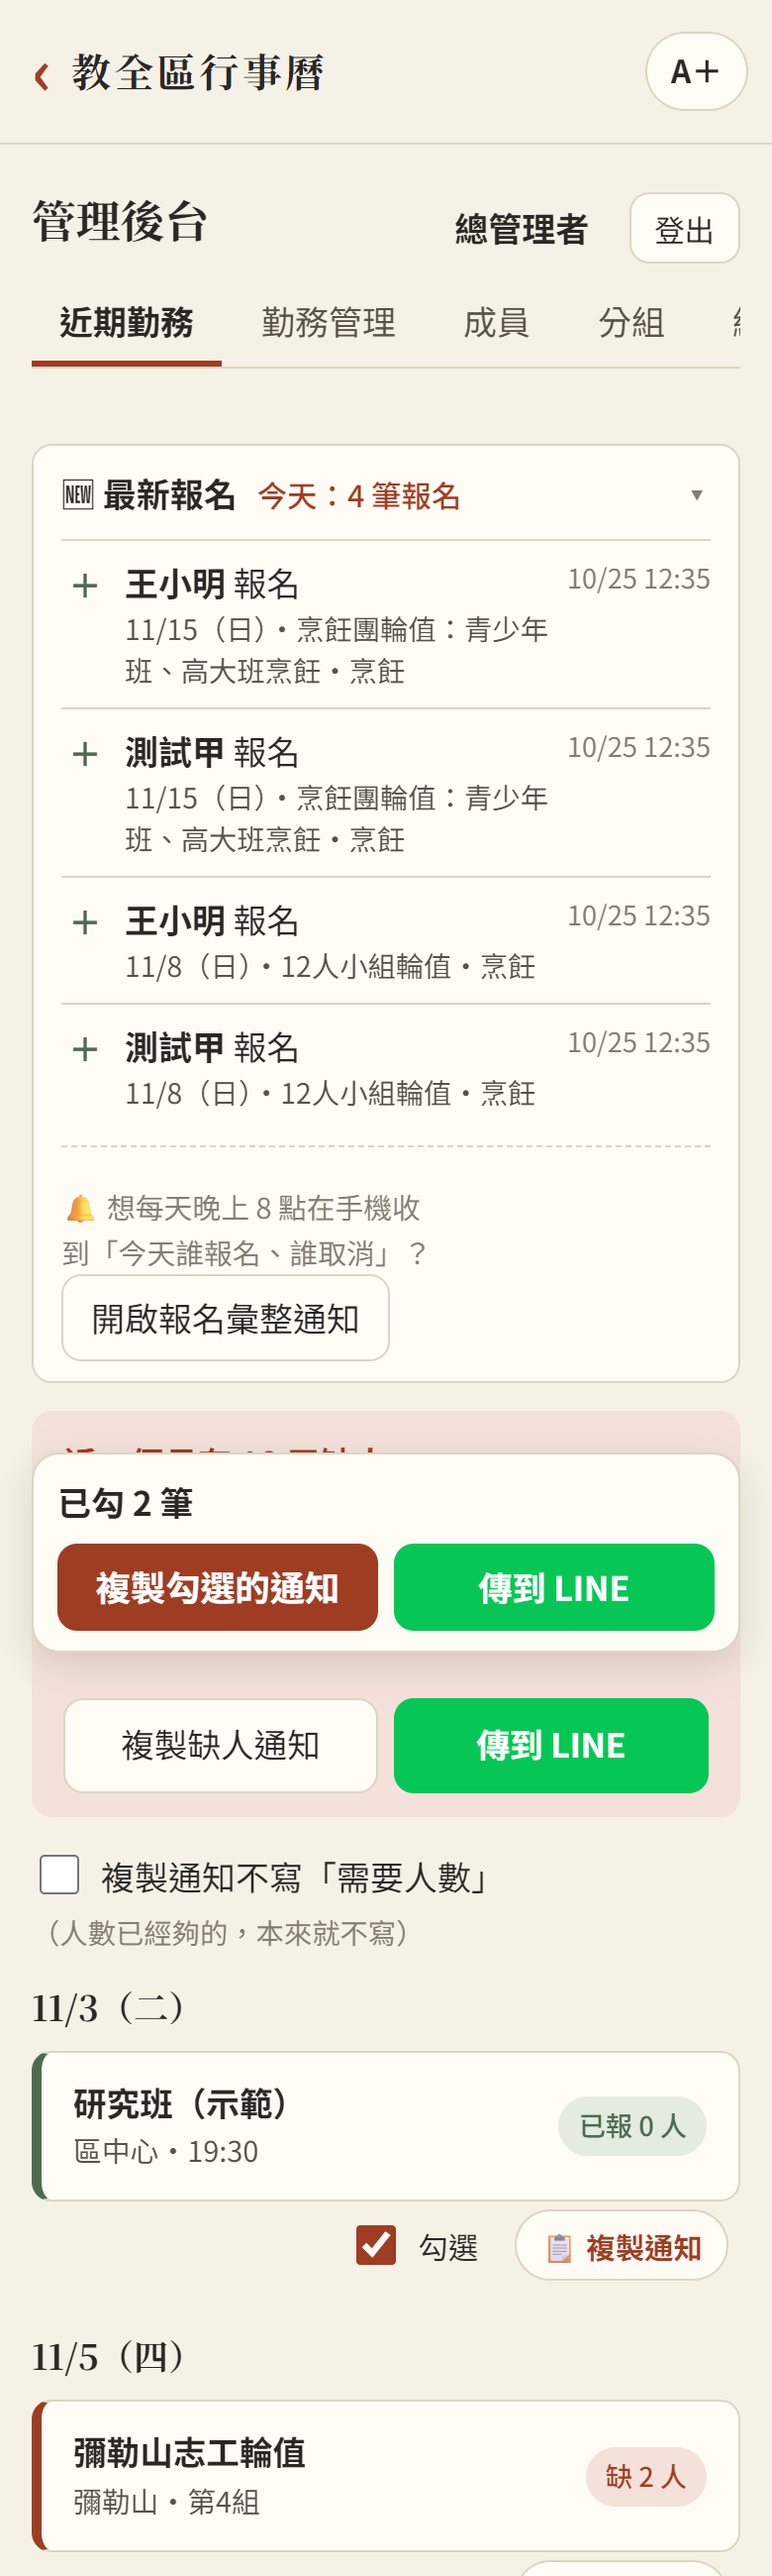
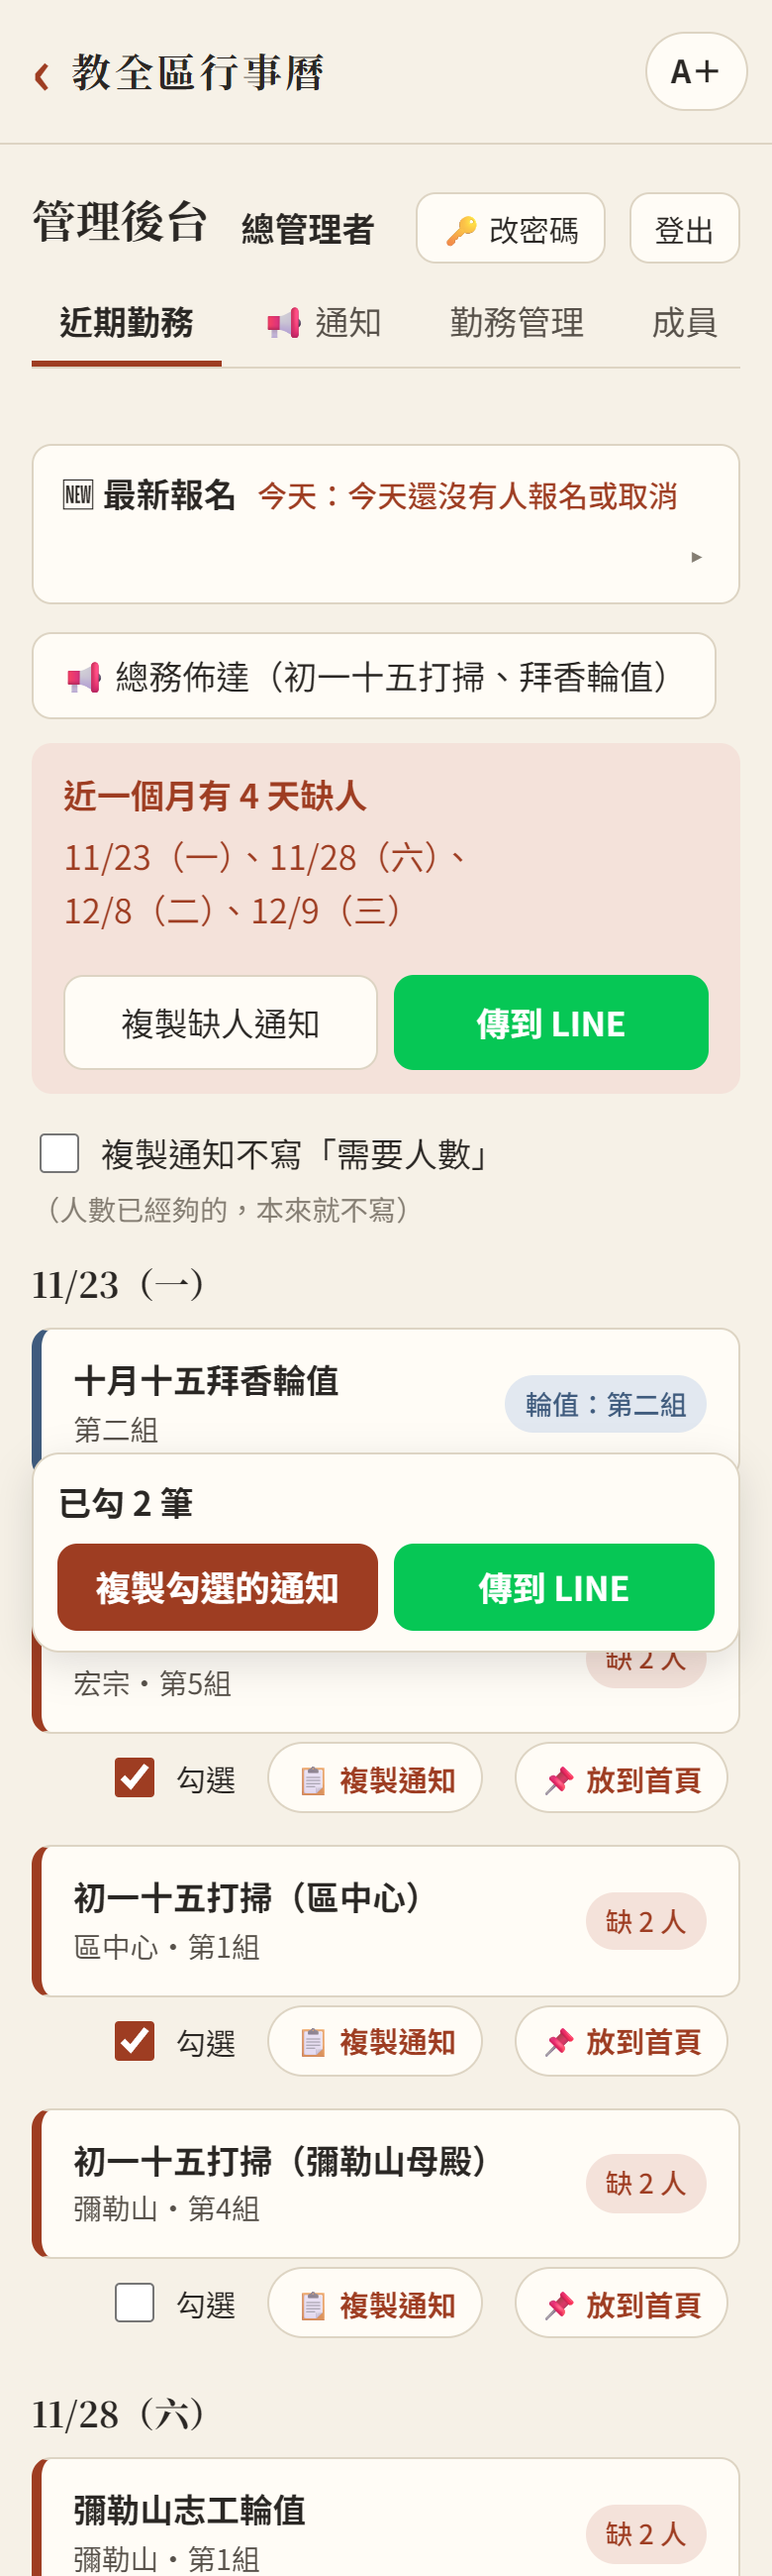
近期勤務也能直接開關「放到首頁」

diff --git a/index.html b/index.html
@@ -23,7 +23,7 @@
   <link rel="preconnect" href="https://fonts.googleapis.com">
   <link rel="preconnect" href="https://fonts.gstatic.com" crossorigin>
   <link href="https://fonts.googleapis.com/css2?family=Noto+Sans+TC:wght@400;500;700&family=Noto+Serif+TC:wght@600;700&display=swap" rel="stylesheet">
-  <link rel="stylesheet" href="css/app.css?v=20261119j">
+  <link rel="stylesheet" href="css/app.css?v=20261119k">
   <script>try { var t = localStorage.getItem('duty-calendar:text-size'); if (t === 'l' || t === 'xl') document.documentElement.classList.add('text-' + t); } catch (e) {}</script>
 </head>
 <body class="splash-on">
@@ -118,63 +118,63 @@
   <script src="https://cdn.jsdelivr.net/npm/fullcalendar@6.1.21/index.global.min.js"></script>
   <script src="https://cdn.jsdelivr.net/npm/@fullcalendar/core@6.1.21/locales/zh-tw.global.min.js"></script>
   <!-- 改了 js、css 後把 ?v= 的日期換新，手機才不會用到舊的檔案（GitHub Pages 會快取 10 分鐘） -->
-  <script src="js/site.js?v=20261119j"></script>
-  <script src="js/region.js?v=20261119j"></script>
-  <script src="js/config.js?v=20261119j"></script>
-  <script src="js/api.js?v=20261119j"></script>
-  <script src="js/format.js?v=20261119j"></script>
-  <script src="js/lunar-util.js?v=20261119j"></script>
-  <script src="js/date-list.js?v=20261119j"></script>
-  <script src="js/share.js?v=20261119j"></script>
-  <script src="js/addcal.js?v=20261119j"></script>
-  <script src="js/duty-cache.js?v=20261119j"></script>
-  <script src="js/thanks-board.js?v=20261119j"></script>
-  <script src="js/calendar.js?v=20261119j"></script>
-  <script src="js/confirm.js?v=20261119j"></script>
-  <script src="js/reschedule.js?v=20261119j"></script>
-  <script src="js/signup.js?v=20261119j"></script>
-  <script src="js/duty-images.js?v=20261119j"></script>
-  <script src="js/roster-grid.js?v=20261119j"></script>
-  <script src="js/grid-page.js?v=20261119j"></script>
-  <script src="js/grid-image.js?v=20261119j"></script>
-  <script src="js/thanks-image.js?v=20261119j"></script>
-  <script src="js/celebrate.js?v=20261119j"></script>
-  <script src="js/duty.js?v=20261119j"></script>
-  <script src="js/mine.js?v=20261119j"></script>
-  <script src="js/venue-hours.js?v=20261119j"></script>
-  <script src="js/venue.js?v=20261119j"></script>
-  <script src="js/push.js?v=20261119j"></script>
-  <script src="js/admin.js?v=20261119j"></script>
-  <script src="js/admin-pages.js?v=20261119j"></script>
-  <script src="js/draft-editor.js?v=20261119j"></script>
-  <script src="js/group-fair.js?v=20261119j"></script>
-  <script src="js/admin-duties.js?v=20261119j"></script>
-  <script src="js/admin-accounts.js?v=20261119j"></script>
-  <script src="js/admin-site.js?v=20261119j"></script>
-  <script src="js/region-setup.js?v=20261119j"></script>
-  <script src="js/import-parse.js?v=20261119j"></script>
-  <script src="js/admin-import.js?v=20261119j"></script>
-  <script src="js/admin-people.js?v=20261119j"></script>
-  <script src="js/stats-calc.js?v=20261119j"></script>
-  <script src="js/edu-stats.js?v=20261119j"></script>
-  <script src="js/admin-goals.js?v=20261119j"></script>
-  <script src="js/admin-venue.js?v=20261119j"></script>
-  <script src="js/admin-push.js?v=20261119j"></script>
-  <script src="js/tutorial.js?v=20261119j"></script>
-  <script src="js/help.js?v=20261119j"></script>
-  <script src="js/rollcall.js?v=20261119j"></script>
-  <script src="js/stats-export.js?v=20261119j"></script>
-  <script src="js/repair.js?v=20261119j"></script>
-  <script src="js/activity-report.js?v=20261119j"></script>
-  <script src="js/member-stats.js?v=20261119j"></script>
-  <script src="js/admin-stats.js?v=20261119j"></script>
-  <script src="js/admin-report.js?v=20261119j"></script>
-  <script src="js/admin-recent-signups.js?v=20261119j"></script>
-  <script src="js/admin-notice.js?v=20261119j"></script>
-  <script src="js/admin-notify.js?v=20261119j"></script>
-  <script src="js/history-parse.js?v=20261119j"></script>
-  <script src="js/admin-history.js?v=20261119j"></script>
-  <script src="js/easy-mode.js?v=20261119j"></script>
-  <script src="js/app.js?v=20261119j"></script>
+  <script src="js/site.js?v=20261119k"></script>
+  <script src="js/region.js?v=20261119k"></script>
+  <script src="js/config.js?v=20261119k"></script>
+  <script src="js/api.js?v=20261119k"></script>
+  <script src="js/format.js?v=20261119k"></script>
+  <script src="js/lunar-util.js?v=20261119k"></script>
+  <script src="js/date-list.js?v=20261119k"></script>
+  <script src="js/share.js?v=20261119k"></script>
+  <script src="js/addcal.js?v=20261119k"></script>
+  <script src="js/duty-cache.js?v=20261119k"></script>
+  <script src="js/thanks-board.js?v=20261119k"></script>
+  <script src="js/calendar.js?v=20261119k"></script>
+  <script src="js/confirm.js?v=20261119k"></script>
+  <script src="js/reschedule.js?v=20261119k"></script>
+  <script src="js/signup.js?v=20261119k"></script>
+  <script src="js/duty-images.js?v=20261119k"></script>
+  <script src="js/roster-grid.js?v=20261119k"></script>
+  <script src="js/grid-page.js?v=20261119k"></script>
+  <script src="js/grid-image.js?v=20261119k"></script>
+  <script src="js/thanks-image.js?v=20261119k"></script>
+  <script src="js/celebrate.js?v=20261119k"></script>
+  <script src="js/duty.js?v=20261119k"></script>
+  <script src="js/mine.js?v=20261119k"></script>
+  <script src="js/venue-hours.js?v=20261119k"></script>
+  <script src="js/venue.js?v=20261119k"></script>
+  <script src="js/push.js?v=20261119k"></script>
+  <script src="js/admin.js?v=20261119k"></script>
+  <script src="js/admin-pages.js?v=20261119k"></script>
+  <script src="js/draft-editor.js?v=20261119k"></script>
+  <script src="js/group-fair.js?v=20261119k"></script>
+  <script src="js/admin-duties.js?v=20261119k"></script>
+  <script src="js/admin-accounts.js?v=20261119k"></script>
+  <script src="js/admin-site.js?v=20261119k"></script>
+  <script src="js/region-setup.js?v=20261119k"></script>
+  <script src="js/import-parse.js?v=20261119k"></script>
+  <script src="js/admin-import.js?v=20261119k"></script>
+  <script src="js/admin-people.js?v=20261119k"></script>
+  <script src="js/stats-calc.js?v=20261119k"></script>
+  <script src="js/edu-stats.js?v=20261119k"></script>
+  <script src="js/admin-goals.js?v=20261119k"></script>
+  <script src="js/admin-venue.js?v=20261119k"></script>
+  <script src="js/admin-push.js?v=20261119k"></script>
+  <script src="js/tutorial.js?v=20261119k"></script>
+  <script src="js/help.js?v=20261119k"></script>
+  <script src="js/rollcall.js?v=20261119k"></script>
+  <script src="js/stats-export.js?v=20261119k"></script>
+  <script src="js/repair.js?v=20261119k"></script>
+  <script src="js/activity-report.js?v=20261119k"></script>
+  <script src="js/member-stats.js?v=20261119k"></script>
+  <script src="js/admin-stats.js?v=20261119k"></script>
+  <script src="js/admin-report.js?v=20261119k"></script>
+  <script src="js/admin-recent-signups.js?v=20261119k"></script>
+  <script src="js/admin-notice.js?v=20261119k"></script>
+  <script src="js/admin-notify.js?v=20261119k"></script>
+  <script src="js/history-parse.js?v=20261119k"></script>
+  <script src="js/admin-history.js?v=20261119k"></script>
+  <script src="js/easy-mode.js?v=20261119k"></script>
+  <script src="js/app.js?v=20261119k"></script>
 </body>
 </html>

diff --git a/js/admin.js b/js/admin.js
@@ -358,6 +358,12 @@
       rows.sort((a, b) => a.date.localeCompare(b.date) || a.d.name.localeCompare(b.d.name, 'zh-Hant'));
       const shortDates = new Set(rows.filter((r) => r.st.kind === 'short').map((r) => r.date));
 
+      // 放到首頁（2026/11/19）：近期勤務也能直接開關；唯讀不能改，類別帳號只能改自己類別的
+      const who = Api.adminWho().role;
+      const canPin = (d) => who !== '唯讀' && (['勤務', '道務', '教育'].indexOf(who) === -1 || (d.category || '勤務') === who);
+      const pinBtn = (d) => (canPin(d)
+        ? `<button type="button" class="link-btn pin-btn${d.pinned ? ' is-on' : ''}" data-pin="${esc(d.id)}">${d.pinned ? '📌 首頁中・拿掉' : '📌 放到首頁'}</button>` : '');
+
       const byDate = new Map();
       rows.forEach((r) => {
         if (!byDate.has(r.date)) byDate.set(r.date, []);
@@ -385,9 +391,10 @@
                     </span>
                     <span class="badge badge-${st.kind}">${esc(st.label)}</span>
                   </a>
-                  ${d.mode === '公告型' ? '' : `<div class="recent-tools">
-                    <label class="check"><input type="checkbox" data-invite-pick="${esc(d.id)}|${date}"> 勾選</label>
-                    <button type="button" class="link-btn" data-invite="${esc(d.id)}|${date}">📋 複製通知</button>
+                  ${d.mode === '公告型' && !canPin(d) ? '' : `<div class="recent-tools">
+                    ${d.mode === '公告型' ? '' : `<label class="check"><input type="checkbox" data-invite-pick="${esc(d.id)}|${date}"> 勾選</label>
+                    <button type="button" class="link-btn" data-invite="${esc(d.id)}|${date}">📋 複製通知</button>`}
+                    ${pinBtn(d)}
                   </div>`}
                 </div>`).join('')}
             </div>
@@ -409,6 +416,24 @@
         const r = rows.find((x) => x.d.id === id && x.date === date);
         return r ? { duty: r.d, date } : null;
       };
+      // 放到首頁：同一個勤務好幾天都有一列，按一個全部跟著換
+      body.querySelectorAll('[data-pin]').forEach((btn) => btn.addEventListener('click', async () => {
+        const d = data.duties.find((x) => x.id === btn.dataset.pin);
+        if (!d) return;
+        btn.disabled = true;
+        try {
+          d.pinned = (await Api.admin('adminSetPinned', { id: d.id, pinned: !d.pinned })).pinned;
+        } catch (e) {
+          btn.disabled = false;
+          alert(e.message || '沒有改成功，請再試一次');
+          return;
+        }
+        body.querySelectorAll(`[data-pin="${CSS.escape(d.id)}"]`).forEach((b) => {
+          b.disabled = false;
+          b.classList.toggle('is-on', d.pinned);
+          b.textContent = d.pinned ? '📌 首頁中・拿掉' : '📌 放到首頁';
+        });
+      }));
       const flashBtn = (btn, text, back) => { btn.textContent = text; setTimeout(() => { btn.textContent = back; }, 2500); };
       body.querySelectorAll('[data-invite]').forEach((btn) => btn.addEventListener('click', async () => {
         const r = rowOf(btn.dataset.invite);

diff --git a/docs/spec.md b/docs/spec.md
@@ -329,7 +329,7 @@
 - **職司表的說明只在大張職司表（2026/11/13）**：版面＝職司表的勤務頁，「說明」不再顯示全文，改成一句「職司說明（作息時間、各職司要做的事、圖片）請到大張職司表看」和「📋 到大張職司表看職司說明」按鈕（#/grid/<id>?desc=1，打開後捲到「職司說明」）。段落標題後面的括號（例：維安（早上、晚上））顯示成第二行小字。
 - **說明裡可以放圖片（2026/11/13）**：勤務「說明」一行寫 `![圖片說明](圖片)` 就顯示成圖片（圖片＝後台上傳的檔案代號 F-…、網站內 img/…、或 https 網址），點了放大、可開新頁看原圖；職司表版面顯示在所在的【段落】裡，一般版面照行的位置。後台編輯勤務的說明欄下面有「📷 加圖片」：上傳（同 DM，存在 Cloudflare，自動縮小）後在游標位置插入一行 `![](F-…)`，游標停在 [ ] 裡可直接打圖片說明。說明裡已經放進去的重點圖片（js/duty-images.js）不再在「重點圖片」重複出現；複製通知的說明行不寫圖片那行。圖片公開，不可放人名、電話、人臉。
 - **手機點空格小視窗不再自己關掉（2026/11/10）**：手機鍵盤跳出、網址列收起會觸發視窗 resize（只有高度變），以前小視窗一打開就被關掉。現在只有寬度改變（轉向）才關；有輸入框的小視窗（報名這一格、改註記）表格捲動時也不關，按 × 或點外面才關。
-- **放到首頁（2026/10/26）**：勤務表單有「📌 放到首頁」勾選（「勤務」分頁最後一欄「首頁置頂」＝是）；行事曆首頁「借區中心場地」下面列出勾了、而且最後一天還沒過的勤務／活動大按鈕（名稱、日期、報名型寫「點我報名」），點了到報名頁；依開始日排序。資料來自行事曆已載入的年份資料（getEvents 的 pinned）。**勤務管理列表直接開關（2026/11/19）**：還沒結束的每一筆下面有「📌 放到首頁／📌 首頁中・拿掉」按鈕（adminSetPinned，只改首頁置頂這一欄、寫操作紀錄；唯讀不能用，類別帳號只能改自己類別）；列表最上面「📌 現在放在首頁：N 筆」列出還沒結束、放在首頁的，可以直接拿掉；月份選單多「📌 放到首頁的」。
+- **放到首頁（2026/10/26）**：勤務表單有「📌 放到首頁」勾選（「勤務」分頁最後一欄「首頁置頂」＝是）；行事曆首頁「借區中心場地」下面列出勾了、而且最後一天還沒過的勤務／活動大按鈕（名稱、日期、報名型寫「點我報名」），點了到報名頁；依開始日排序。資料來自行事曆已載入的年份資料（getEvents 的 pinned）。**勤務管理列表直接開關（2026/11/19）**：還沒結束的每一筆下面有「📌 放到首頁／📌 首頁中・拿掉」按鈕（adminSetPinned，只改首頁置頂這一欄、寫操作紀錄；唯讀不能用，類別帳號只能改自己類別）；列表最上面「📌 現在放在首頁：N 筆」列出還沒結束、放在首頁的，可以直接拿掉；月份選單多「📌 放到首頁的」。**近期勤務也能開關（2026/11/19）**：每一筆下面「📋 複製通知」旁邊也有同一個按鈕（同一個勤務好幾天都有一列，按一個全部跟著換；公告型也有）。
 - **建議負責組（2026/11/2）**：後台新增／編輯類別「勤務」的勤務（非農曆規則）時，「負責組」下面顯示「💡 建議」：同一分組類型（還沒選就看勤務了愿組）的各組，依近一年（結束日在今天往前 365 天內，含之後已排的）負責筆數由少到多排，一樣多就最久沒輪到的優先；這筆日期當天已有勤務的組排最後；編輯中的這筆不算。按「用這組」直接選好，展開可看各組次數並選任何一組。只是建議，不強制。前端計算（js/group-fair.js，資料來自 adminDutyList）。
 - **從照片新增也有建議負責組（2026/11/6）**：「📷 從照片新增」的草稿卡片，類別是勤務時，分組類型、負責組下面一樣顯示「💡 建議」與「看各組負責次數」（按「用這組」／「選」直接選好）；同一次其他草稿已選的組和日期也算進去（不會每筆都建議同一組、同一天不重複）；改日期或負責組就重新排。
 - **建議負責組顯示組長（2026/11/6）**：建議與「看各組負責次數」的每一組，組名後面寫「組長 ○○」（分組的「組長或召集人」；沒填不寫）。後台的分組清單（adminDutyList、adminDutyForEdit、adminMembers 的 groups）多回傳 leader，不含電話。
